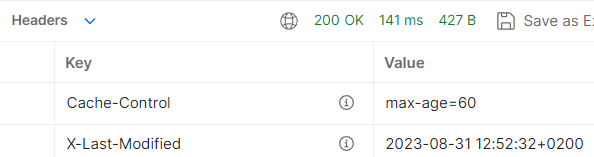
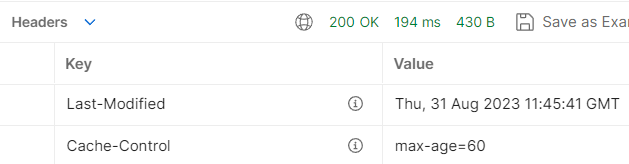
Refactoring cache headers

diff --git a/restful-sv/src/main/java/org/example/restful/adapter/rest/v1/controller/StockControllerImpl.java b/restful-sv/src/main/java/org/example/restful/adapter/rest/v1/controller/StockControllerImpl.java
@@ -1,6 +1,6 @@
 package org.example.restful.adapter.rest.v1.controller;
 
-import java.util.Date;
+import java.time.Instant;
 import java.util.HashMap;
 import java.util.List;
 import java.util.Map;
@@ -62,7 +62,7 @@ public class StockControllerImpl extends RestfulAPIController<StockResponse>
 
     return ResponseEntity.ok()
         .cacheControl(CacheControl.maxAge(cacheTTL.getAllStocksTTL(), TimeUnit.MILLISECONDS))
-        .header("X-Last-Modified", dateFormat.format(new Date()))
+        .lastModified(Instant.now())
         .body(responseConverter.convert(stockService.getAllStocks()));
   }
 

diff --git a/restful-sv/src/main/java/org/example/restful/adapter/rest/RestfulAPIController.java b/restful-sv/src/main/java/org/example/restful/adapter/rest/RestfulAPIController.java
@@ -1,6 +1,5 @@
 package org.example.restful.adapter.rest;
 
-import java.text.SimpleDateFormat;
 import java.util.List;
 import java.util.Map;
 
@@ -13,8 +12,6 @@ import org.springframework.web.bind.annotation.RequestMethod;
 public abstract class RestfulAPIController<T extends RepresentationModel<T>> {
 
   @Autowired protected CacheTTL cacheTTL;
-
-  protected SimpleDateFormat dateFormat = new SimpleDateFormat("yyyy-MM-dd HH:mm:ssZ");
 
   protected void applyHATEOAS(T response, List<RequestMethod> includedLinks) {
 

diff --git a/restful-sv/src/test/java/org/example/restful/adapter/rest/v1/controller/StockControllerImplIntegrationTest.java b/restful-sv/src/test/java/org/example/restful/adapter/rest/v1/controller/StockControllerImplIntegrationTest.java
@@ -63,7 +63,7 @@ public class StockControllerImplIntegrationTest {
         .andExpect(jsonPath("$[1].corporationName", is("BBVA")))
         .andExpect(jsonPath("$[2].corporationName", is("Telefónica")))
         .andExpect(header().string("Cache-Control", equalTo("max-age=70")))
-        .andExpect(header().string("X-Last-Modified", notNullValue()));
+        .andExpect(header().string("Last-Modified", notNullValue()));
   }
 
   @Test
